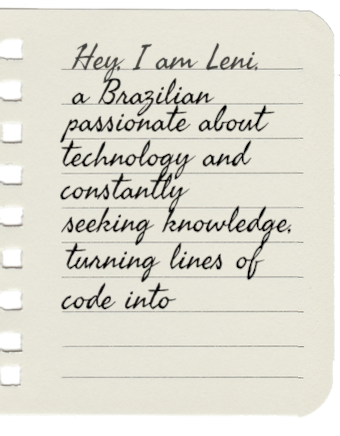
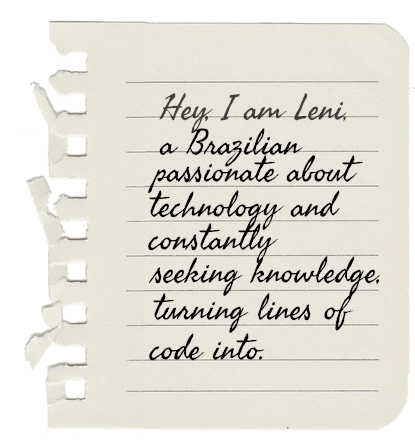
added mobile about picture

diff --git a/src/index.html b/src/index.html
@@ -39,7 +39,7 @@
     <main class="background-color">
       <section id="home" class="container">
         <div>
-          <img class="avatar" src="images/avatar.png" alt="avatar"/>
+          <img class="avatar" src="images/avatar.png" alt="avatar" />
         </div>
         <div>
           <p class="my-name">Leni Ramos</p>
@@ -56,9 +56,19 @@
             src="images/main_picture.JPG"
             alt="main picture"
           />
-          <div class="text-about">
-            <img class="text" src="images/about_desktop.png" alt="text about me" srcset="" />
-          </div>
+
+          <picture class="text-about">
+            <source class="text"
+              media="(max-width: 600px)"
+              srcset="images/about_mobile.png"
+              type="image/jpg"
+            />
+            <img
+              class="text"
+              src="images/about_desktop.png"
+              alt="text about me"
+            />
+          </picture>
         </div>
         <div class="picture-trips">
           <img
@@ -85,41 +95,41 @@
       </section>
     </div>
     <div class="background-color">
-    <section id="projects" class="container">
-      <h2>Projects</h2>
-      <div class="projects-container">
-        <div class="project">
-          <a href="https://github.com/lenizeramos"
-            ><img src="images/coming_soon_1.jpg" alt="Coming Soon"
-          /></a>
+      <section id="projects" class="container">
+        <h2>Projects</h2>
+        <div class="projects-container">
+          <div class="project">
+            <a href="https://github.com/lenizeramos"
+              ><img src="images/coming_soon_1.jpg" alt="Coming Soon"
+            /></a>
+          </div>
+          <div class="project">
+            <a href="https://github.com/lenizeramos"
+              ><img src="images/coming_soon_2.jpg" alt="Coming Soon"
+            /></a>
+          </div>
+          <div class="project">
+            <a href="https://github.com/lenizeramos"
+              ><img src="images/coming_soon_1.jpg" alt="Coming Soon"
+            /></a>
+          </div>
+          <div class="project">
+            <a href="https://github.com/lenizeramos"
+              ><img src="images/coming_soon_2.jpg" alt="Coming Soon"
+            /></a>
+          </div>
+          <div class="project">
+            <a href="https://github.com/lenizeramos"
+              ><img src="images/coming_soon_1.jpg" alt="Coming Soon"
+            /></a>
+          </div>
+          <div class="project">
+            <a href="https://github.com/lenizeramos"
+              ><img src="images/coming_soon_2.jpg" alt="Coming Soon"
+            /></a>
+          </div>
         </div>
-        <div class="project">
-          <a href="https://github.com/lenizeramos"
-            ><img src="images/coming_soon_2.jpg" alt="Coming Soon"
-          /></a>
-        </div>
-        <div class="project">
-          <a href="https://github.com/lenizeramos"
-            ><img src="images/coming_soon_1.jpg" alt="Coming Soon"
-          /></a>
-        </div>
-        <div class="project">
-          <a href="https://github.com/lenizeramos"
-            ><img src="images/coming_soon_2.jpg" alt="Coming Soon"
-          /></a>
-        </div>
-        <div class="project">
-          <a href="https://github.com/lenizeramos"
-            ><img src="images/coming_soon_1.jpg" alt="Coming Soon"
-          /></a>
-        </div>
-        <div class="project">
-          <a href="https://github.com/lenizeramos"
-            ><img src="images/coming_soon_2.jpg" alt="Coming Soon"
-          /></a>
-        </div>
-      </div>
-    </section>
+      </section>
     </div>
     <div class="background-color">
       <section id="skills" class="container">
@@ -147,27 +157,27 @@
       </section>
     </div>
     <div class="background-color">
-    <section id="experience" class="container">
-      <h2>Experience</h2>
-      <div class="experience-flex">
-        <div class="item-experience">
-          <h3>Legal Assistant - CA</h3>
-          <p>2022 - 2024</p>
+      <section id="experience" class="container">
+        <h2>Experience</h2>
+        <div class="experience-flex">
+          <div class="item-experience">
+            <h3>Legal Assistant - CA</h3>
+            <p>2022 - 2024</p>
+          </div>
+          <div class="item-experience">
+            <h3>Administrative Assistant - CA</h3>
+            <p>2019 - 2021</p>
+          </div>
+          <div class="item-experience">
+            <h3>Volunteer - CA</h3>
+            <p>2019</p>
+          </div>
+          <div class="item-experience">
+            <h3>Lawyer - BR</h3>
+            <p>2015 - 2019</p>
+          </div>
         </div>
-        <div class="item-experience">
-          <h3>Administrative Assistant - CA</h3>
-          <p>2019 - 2021</p>
-        </div>
-        <div class="item-experience">
-          <h3>Volunteer - CA</h3>
-          <p>2019</p>
-        </div>
-        <div class="item-experience">
-          <h3>Lawyer - BR</h3>
-          <p>2015 - 2019</p>
-        </div>
-      </div>
-    </section>
+      </section>
     </div>
     <div class="background-color">
       <section id="contact" class="container">

diff --git a/src/css/index.css b/src/css/index.css
@@ -159,6 +159,13 @@ main #home .job-title {
 #about .picture-text .text-about {
   height: 100%;
 }
+#about .text-mobile {
+  max-width: 80%;
+  max-height: 80%;
+  object-fit: cover;
+  transform: rotate(0.03turn);
+  z-index: 1;
+}
 #about .text {
   max-width: 100%;
   max-height: 100%;

diff --git a/src/sass/index.scss b/src/sass/index.scss
@@ -175,6 +175,14 @@ main {
       height: 100%;
     }
   }
+  .text-mobile {
+    max-width: 80%;
+    max-height: 80%;
+    object-fit: cover;
+    transform: rotate(0.03turn);
+    z-index: 1;
+  }
+
   .text {
     max-width: 100%;
     max-height: 100%;
